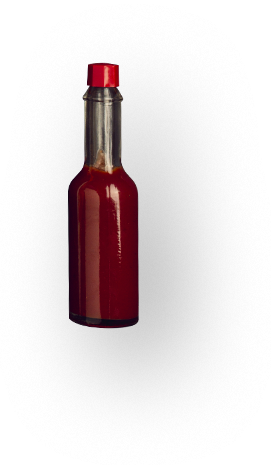
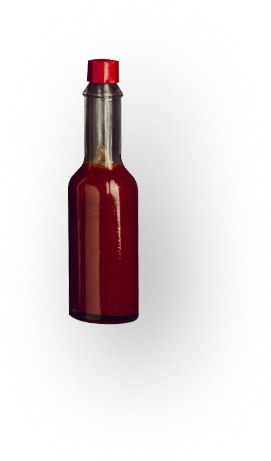
fixing bottle img

diff --git a/index.html b/index.html
@@ -203,7 +203,7 @@
 	<div class="row">
 	<div class="col-lg-2">
 	<img class="top-img" src="images/burger-top.png">
-	<img class="bottle" src="images/bottle.png">		
+	<img class="bottle" src="images/Bottle.png">		
 	</div>
 
 	<div class="col-lg-8">

diff --git a/style.css b/style.css
@@ -230,7 +230,7 @@ h5{
 
 .bottle{
 	margin-top: -100px;
-	margin-left: 70%;
+	margin-left: 40%;
 	
 }
 
